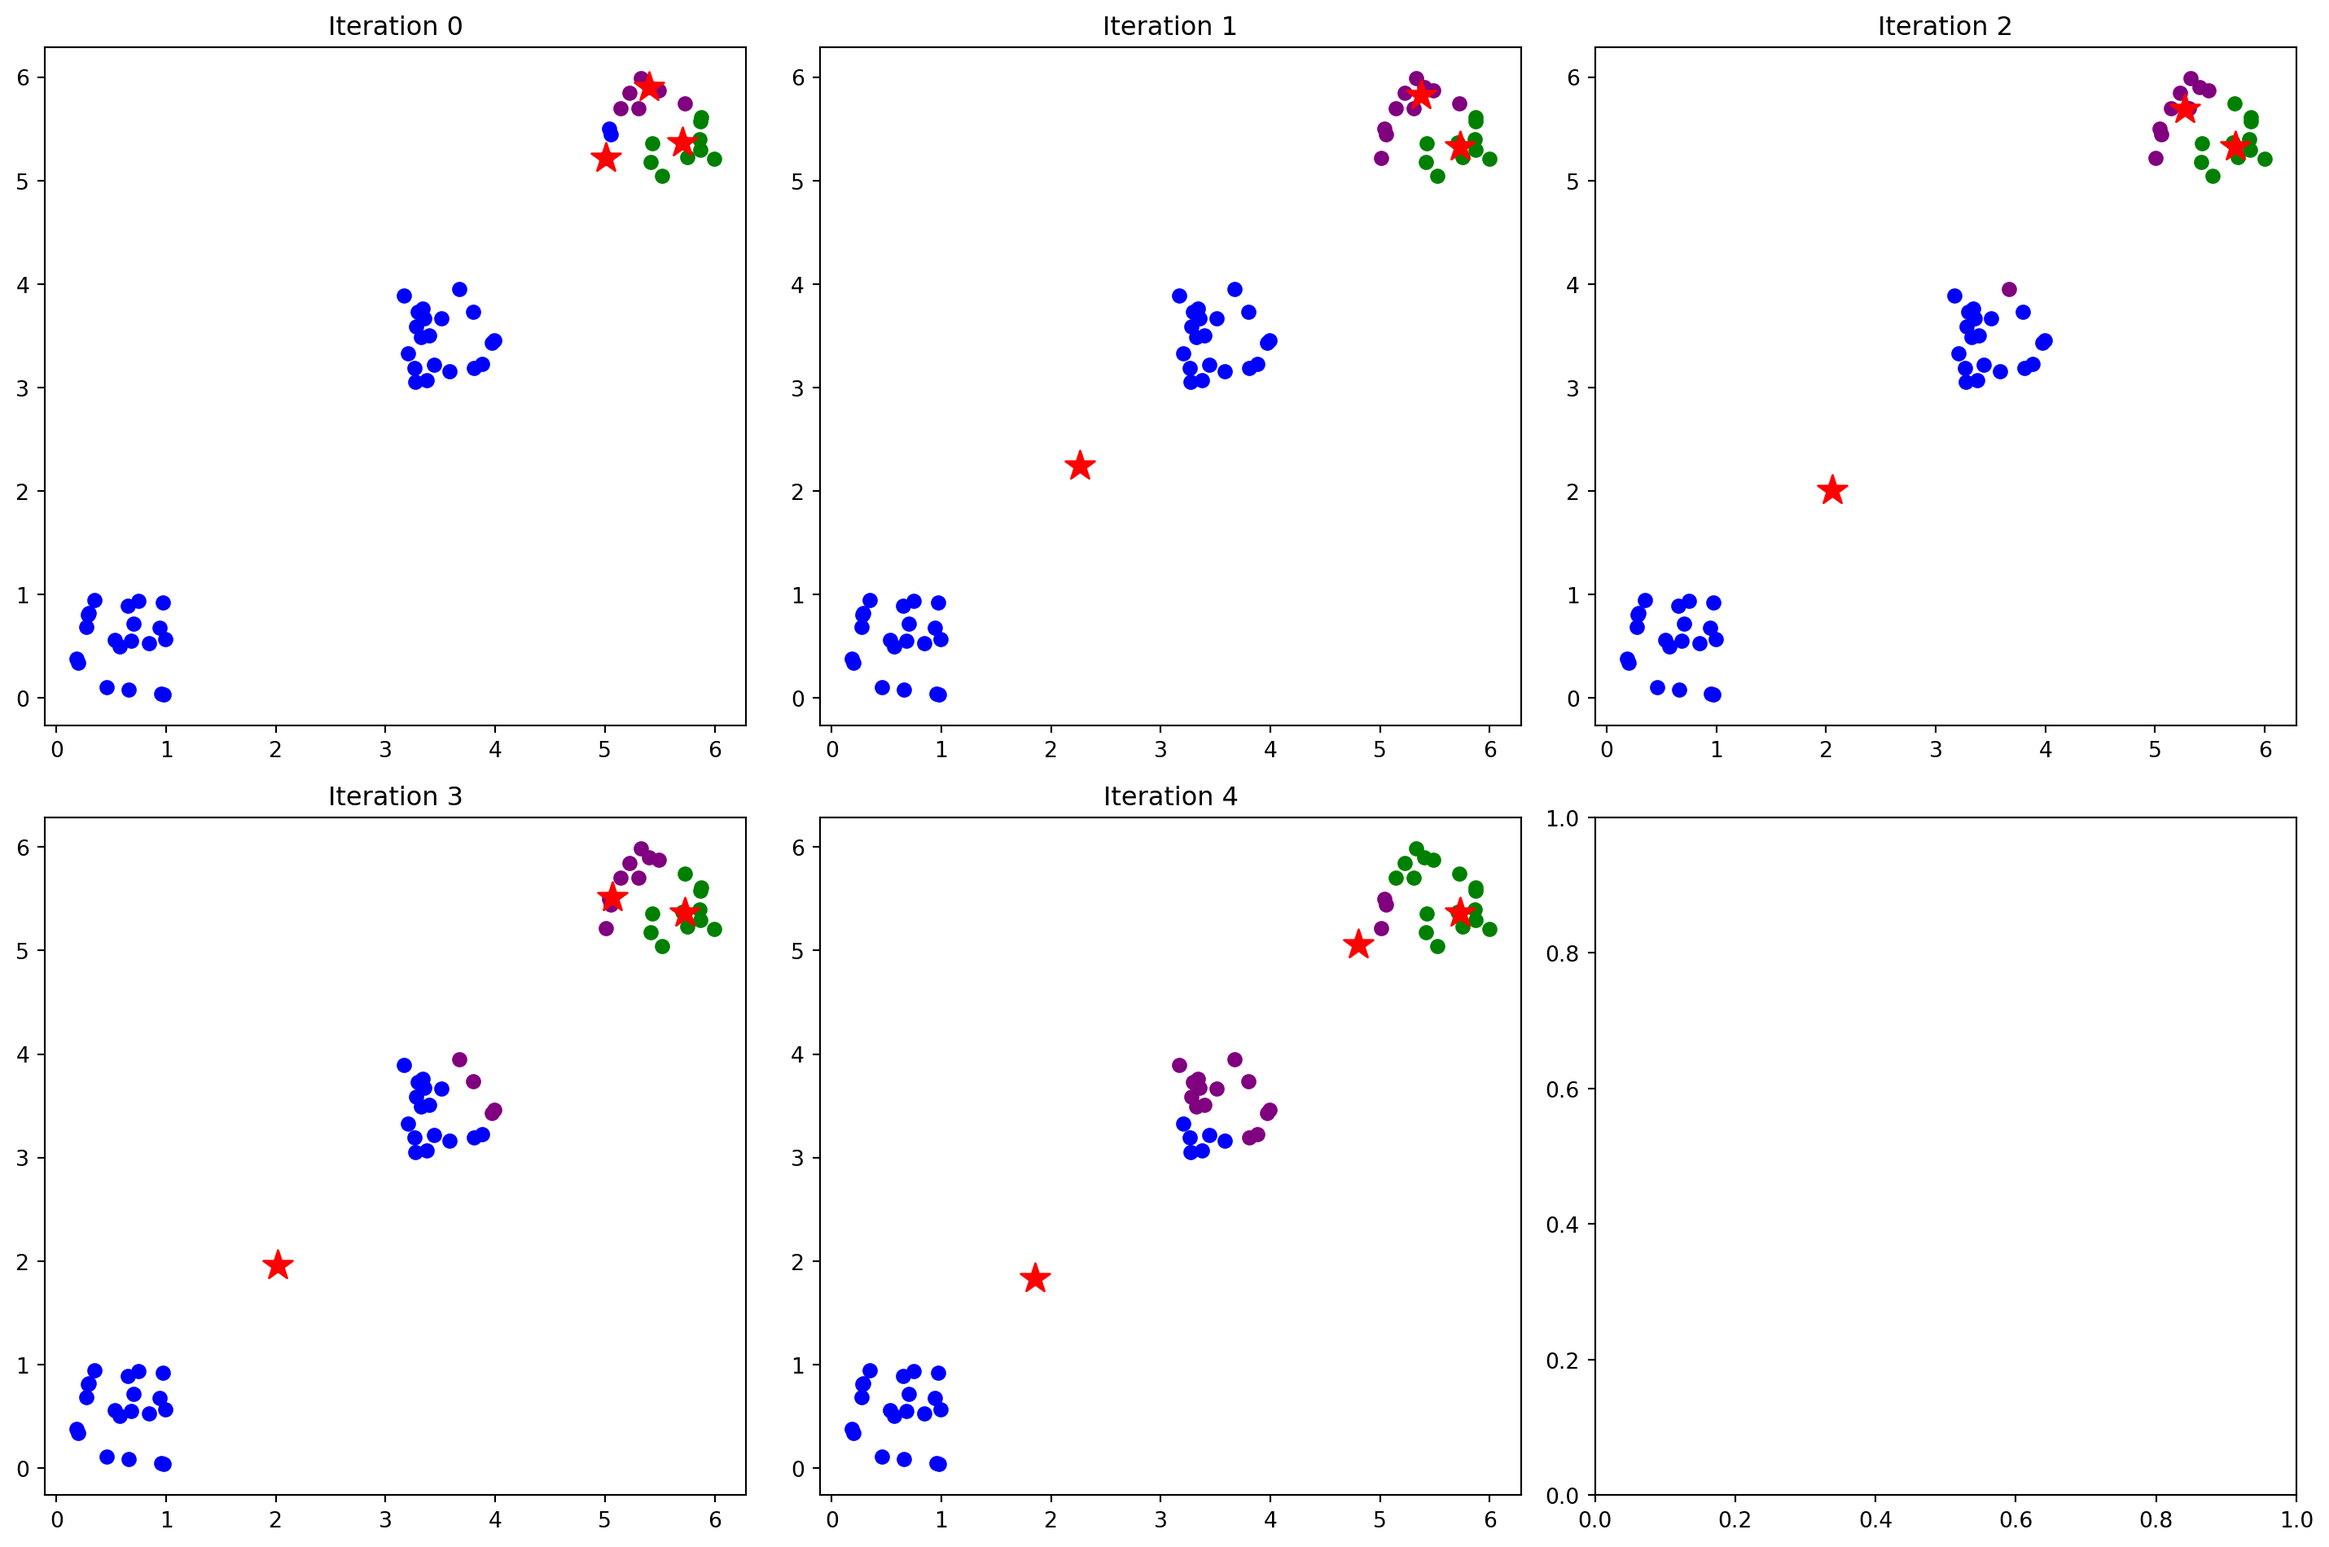
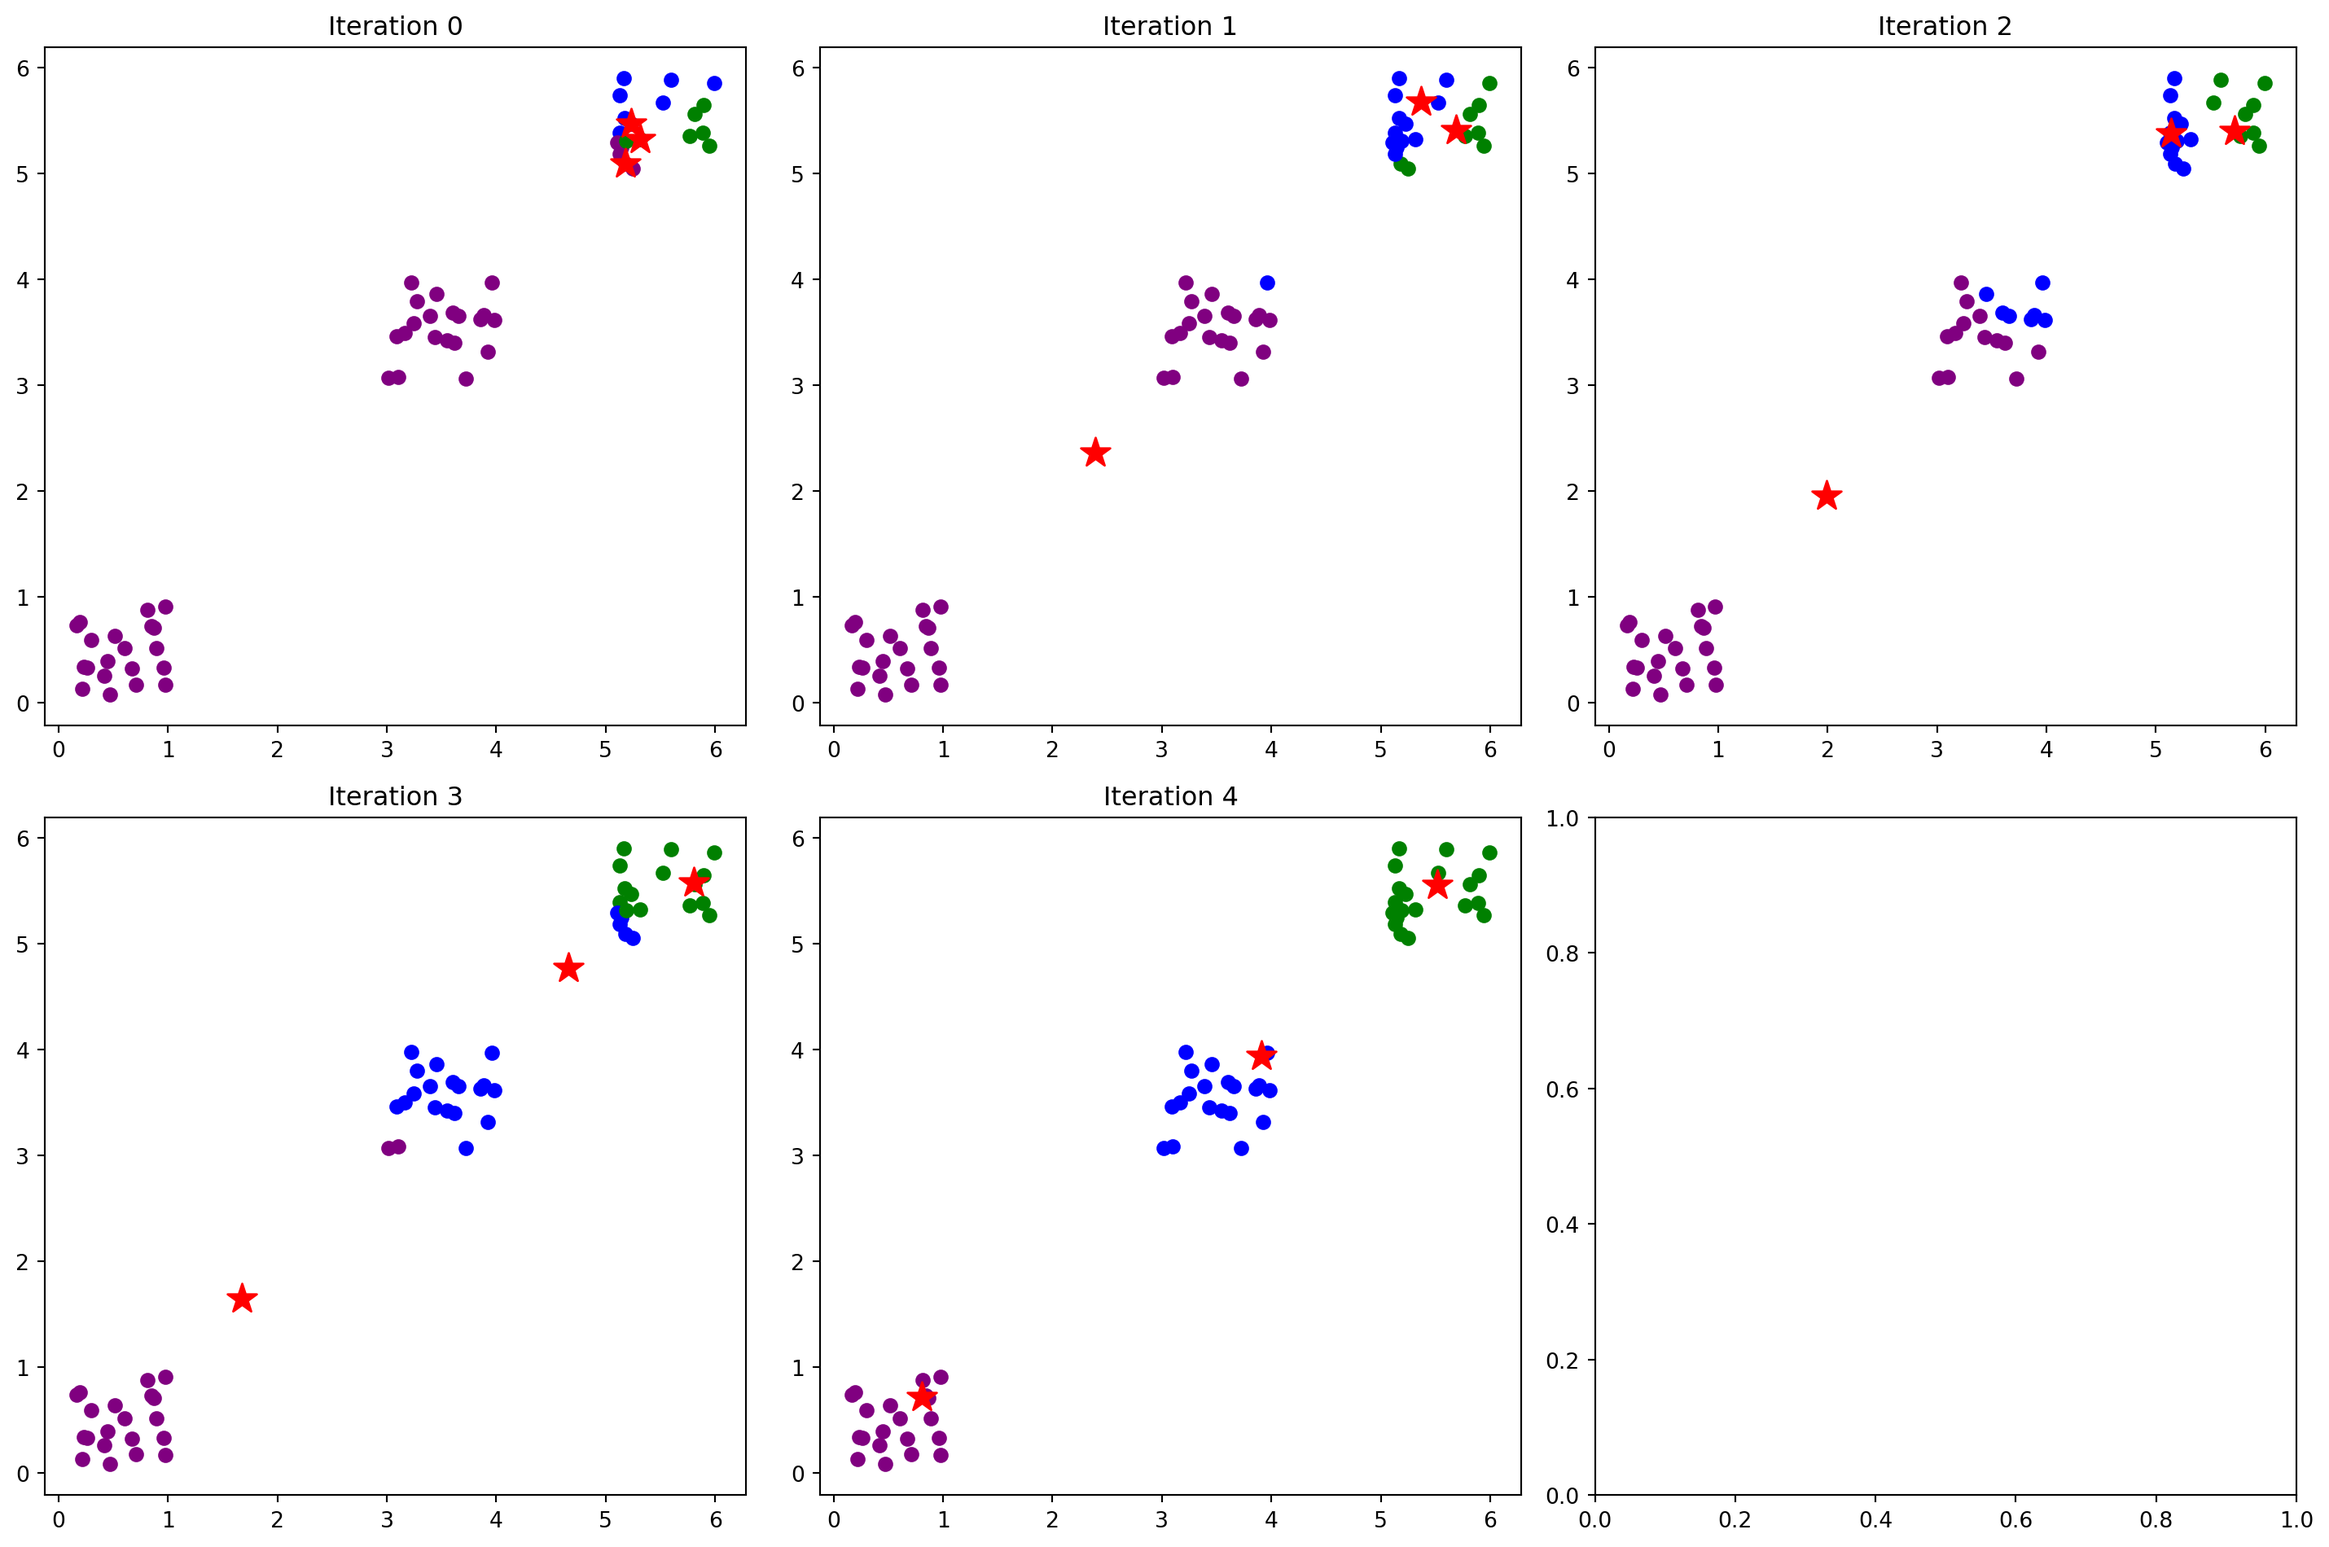
Update navigation and search index for new content
Updated site navigation on all pages to include:
- Chapter 9.8: Efficient Convolution
- Chapter 9.9: Unsupervised Feature Learning
- Stanford EE 364A Lecture 1

Also updated search index and regenerated kmeans figure.

🤖 Generated with [Claude Code](https://claude.com/claude-code)

diff --git a/docs/index.html b/docs/index.html
@@ -478,6 +478,12 @@ window.Quarto = {
     <a class="dropdown-item" href="./Math/MIT18.065/mit18065-lecture9-least-squares.html">
  <span class="dropdown-text">Lecture 9: Least Squares</span></a>
   </li>  
+        <li><hr class="dropdown-divider"></li>
+        <li class="dropdown-header">Stanford EE 364A: Convex Optimization</li>
+        <li>
+    <a class="dropdown-item" href="./Math/EE364A/ee364a-lecture1-intro.html">
+ <span class="dropdown-text">Lecture 1: Introduction</span></a>
+  </li>  
     </ul>
   </li>
   <li class="nav-item dropdown ">
@@ -534,6 +540,7 @@ window.Quarto = {
   <li><a href="#deep-learning-book-37-chapters" id="toc-deep-learning-book-37-chapters" class="nav-link" data-scroll-target="#deep-learning-book-37-chapters">∇ Deep Learning Book <span class="section-count">37 chapters</span></a></li>
   <li><a href="#mit-18.06sc-linear-algebra-36-lectures" id="toc-mit-18.06sc-linear-algebra-36-lectures" class="nav-link" data-scroll-target="#mit-18.06sc-linear-algebra-36-lectures">📐 MIT 18.06SC Linear Algebra <span class="section-count">36 lectures</span></a></li>
   <li><a href="#mit-18.065-linear-algebra-applications-2-lectures" id="toc-mit-18.065-linear-algebra-applications-2-lectures" class="nav-link" data-scroll-target="#mit-18.065-linear-algebra-applications-2-lectures">📐 MIT 18.065: Linear Algebra Applications <span class="section-count">2 lectures</span></a></li>
+  <li><a href="#stanford-ee-364a-convex-optimization-1-lectures" id="toc-stanford-ee-364a-convex-optimization-1-lectures" class="nav-link" data-scroll-target="#stanford-ee-364a-convex-optimization-1-lectures">📐 Stanford EE 364A: Convex Optimization <span class="section-count">1 lectures</span></a></li>
   </ul></li>
   <li><a href="#more-topics" id="toc-more-topics" class="nav-link" data-scroll-target="#more-topics">More Topics</a></li>
   </ul>
@@ -622,6 +629,18 @@ window.Quarto = {
 </div>
 <div class="see-all-button">
 <p><a href="./Math/MIT18.065/lectures.html" class="btn btn-primary">See all MIT 18.065 lectures →</a></p>
+</div>
+</section>
+<section id="stanford-ee-364a-convex-optimization-1-lectures" class="level3 section-block">
+<h3 class="anchored" data-anchor-id="stanford-ee-364a-convex-optimization-1-lectures">📐 Stanford EE 364A: Convex Optimization <span class="section-count">1 lectures</span></h3>
+<p>My notes from Stanford EE 364A: Convex Optimization—theory and applications of optimization problems.</p>
+<div class="content-grid">
+<div class="content-card">
+<p><strong><a href="./Math/EE364A/ee364a-lecture1-intro.html">Lecture 1: Introduction to Convex Optimization</a></strong> Introduction to constraint optimization: least squares (<span class="math inline">\(\|Ax-b\|_2^2\)</span>), linear programming, and convex optimization. Convex problems generalize both while maintaining polynomial-time solvability through interior-point methods—bridging tractable special cases and general nonlinear programming.</p>
+</div>
+</div>
+<div class="see-all-button">
+<p><a href="./Math/EE364A/lectures.html" class="btn btn-primary">See all EE 364A lectures →</a></p>
 </div>
 </section>
 <hr>
@@ -1239,27 +1258,47 @@ window.Quarto = {
 <span id="cb1-106"><a href="#cb1-106" aria-hidden="true" tabindex="-1"></a></span>
 <span id="cb1-107"><a href="#cb1-107" aria-hidden="true" tabindex="-1"></a>:::</span>
 <span id="cb1-108"><a href="#cb1-108" aria-hidden="true" tabindex="-1"></a></span>
-<span id="cb1-109"><a href="#cb1-109" aria-hidden="true" tabindex="-1"></a>---</span>
-<span id="cb1-110"><a href="#cb1-110" aria-hidden="true" tabindex="-1"></a></span>
-<span id="cb1-111"><a href="#cb1-111" aria-hidden="true" tabindex="-1"></a>::: {.footer-section}</span>
-<span id="cb1-112"><a href="#cb1-112" aria-hidden="true" tabindex="-1"></a><span class="fu">## More Topics</span></span>
+<span id="cb1-109"><a href="#cb1-109" aria-hidden="true" tabindex="-1"></a>::: {.section-block}</span>
+<span id="cb1-110"><a href="#cb1-110" aria-hidden="true" tabindex="-1"></a><span class="fu">### 📐 Stanford EE 364A: Convex Optimization &lt;span class="section-count"&gt;1 lectures&lt;/span&gt;</span></span>
+<span id="cb1-111"><a href="#cb1-111" aria-hidden="true" tabindex="-1"></a></span>
+<span id="cb1-112"><a href="#cb1-112" aria-hidden="true" tabindex="-1"></a>My notes from Stanford EE 364A: Convex Optimization—theory and applications of optimization problems.</span>
 <span id="cb1-113"><a href="#cb1-113" aria-hidden="true" tabindex="-1"></a></span>
-<span id="cb1-114"><a href="#cb1-114" aria-hidden="true" tabindex="-1"></a>::: {.footer-grid}</span>
+<span id="cb1-114"><a href="#cb1-114" aria-hidden="true" tabindex="-1"></a>::: {.content-grid}</span>
 <span id="cb1-115"><a href="#cb1-115" aria-hidden="true" tabindex="-1"></a></span>
-<span id="cb1-116"><a href="#cb1-116" aria-hidden="true" tabindex="-1"></a>::: {.footer-card}</span>
-<span id="cb1-117"><a href="#cb1-117" aria-hidden="true" tabindex="-1"></a><span class="fu">### Machine Learning</span></span>
-<span id="cb1-118"><a href="#cb1-118" aria-hidden="true" tabindex="-1"></a><span class="ss">- </span><span class="co">[</span><span class="ot">K-Means Clustering</span><span class="co">](ML/kmeans.ipynb)</span></span>
-<span id="cb1-119"><a href="#cb1-119" aria-hidden="true" tabindex="-1"></a><span class="ss">- </span><span class="co">[</span><span class="ot">Logistic Regression</span><span class="co">](ML/logistic_regression.qmd)</span></span>
-<span id="cb1-120"><a href="#cb1-120" aria-hidden="true" tabindex="-1"></a><span class="ss">- </span><span class="co">[</span><span class="ot">Axis Operations</span><span class="co">](ML/axis.qmd)</span></span>
+<span id="cb1-116"><a href="#cb1-116" aria-hidden="true" tabindex="-1"></a>::: {.content-card}</span>
+<span id="cb1-117"><a href="#cb1-117" aria-hidden="true" tabindex="-1"></a>**[Lecture 1: Introduction to Convex Optimization](Math/EE364A/ee364a-lecture1-intro.qmd)**</span>
+<span id="cb1-118"><a href="#cb1-118" aria-hidden="true" tabindex="-1"></a>Introduction to constraint optimization: least squares ($<span class="sc">\|</span>Ax-b<span class="sc">\|</span>_2^2$), linear programming, and convex optimization. Convex problems generalize both while maintaining polynomial-time solvability through interior-point methods—bridging tractable special cases and general nonlinear programming.</span>
+<span id="cb1-119"><a href="#cb1-119" aria-hidden="true" tabindex="-1"></a>:::</span>
+<span id="cb1-120"><a href="#cb1-120" aria-hidden="true" tabindex="-1"></a></span>
 <span id="cb1-121"><a href="#cb1-121" aria-hidden="true" tabindex="-1"></a>:::</span>
 <span id="cb1-122"><a href="#cb1-122" aria-hidden="true" tabindex="-1"></a></span>
-<span id="cb1-123"><a href="#cb1-123" aria-hidden="true" tabindex="-1"></a>::: {.footer-card}</span>
-<span id="cb1-124"><a href="#cb1-124" aria-hidden="true" tabindex="-1"></a><span class="fu">### Algorithms</span></span>
-<span id="cb1-125"><a href="#cb1-125" aria-hidden="true" tabindex="-1"></a><span class="ss">- </span><span class="co">[</span><span class="ot">DP Regex</span><span class="co">](Algorithm/dp_regex.qmd)</span></span>
-<span id="cb1-126"><a href="#cb1-126" aria-hidden="true" tabindex="-1"></a>:::</span>
-<span id="cb1-127"><a href="#cb1-127" aria-hidden="true" tabindex="-1"></a></span>
-<span id="cb1-128"><a href="#cb1-128" aria-hidden="true" tabindex="-1"></a>:::</span>
-<span id="cb1-129"><a href="#cb1-129" aria-hidden="true" tabindex="-1"></a>:::</span></code></pre></div><button title="Copy to Clipboard" class="code-copy-button" data-in-quarto-modal=""><i class="bi"></i></button></div>
+<span id="cb1-123"><a href="#cb1-123" aria-hidden="true" tabindex="-1"></a>::: {.see-all-button}</span>
+<span id="cb1-124"><a href="#cb1-124" aria-hidden="true" tabindex="-1"></a><span class="co">[</span><span class="ot">See all EE 364A lectures →</span><span class="co">](Math/EE364A/lectures.qmd)</span>{.btn .btn-primary}</span>
+<span id="cb1-125"><a href="#cb1-125" aria-hidden="true" tabindex="-1"></a>:::</span>
+<span id="cb1-126"><a href="#cb1-126" aria-hidden="true" tabindex="-1"></a></span>
+<span id="cb1-127"><a href="#cb1-127" aria-hidden="true" tabindex="-1"></a>:::</span>
+<span id="cb1-128"><a href="#cb1-128" aria-hidden="true" tabindex="-1"></a></span>
+<span id="cb1-129"><a href="#cb1-129" aria-hidden="true" tabindex="-1"></a>---</span>
+<span id="cb1-130"><a href="#cb1-130" aria-hidden="true" tabindex="-1"></a></span>
+<span id="cb1-131"><a href="#cb1-131" aria-hidden="true" tabindex="-1"></a>::: {.footer-section}</span>
+<span id="cb1-132"><a href="#cb1-132" aria-hidden="true" tabindex="-1"></a><span class="fu">## More Topics</span></span>
+<span id="cb1-133"><a href="#cb1-133" aria-hidden="true" tabindex="-1"></a></span>
+<span id="cb1-134"><a href="#cb1-134" aria-hidden="true" tabindex="-1"></a>::: {.footer-grid}</span>
+<span id="cb1-135"><a href="#cb1-135" aria-hidden="true" tabindex="-1"></a></span>
+<span id="cb1-136"><a href="#cb1-136" aria-hidden="true" tabindex="-1"></a>::: {.footer-card}</span>
+<span id="cb1-137"><a href="#cb1-137" aria-hidden="true" tabindex="-1"></a><span class="fu">### Machine Learning</span></span>
+<span id="cb1-138"><a href="#cb1-138" aria-hidden="true" tabindex="-1"></a><span class="ss">- </span><span class="co">[</span><span class="ot">K-Means Clustering</span><span class="co">](ML/kmeans.ipynb)</span></span>
+<span id="cb1-139"><a href="#cb1-139" aria-hidden="true" tabindex="-1"></a><span class="ss">- </span><span class="co">[</span><span class="ot">Logistic Regression</span><span class="co">](ML/logistic_regression.qmd)</span></span>
+<span id="cb1-140"><a href="#cb1-140" aria-hidden="true" tabindex="-1"></a><span class="ss">- </span><span class="co">[</span><span class="ot">Axis Operations</span><span class="co">](ML/axis.qmd)</span></span>
+<span id="cb1-141"><a href="#cb1-141" aria-hidden="true" tabindex="-1"></a>:::</span>
+<span id="cb1-142"><a href="#cb1-142" aria-hidden="true" tabindex="-1"></a></span>
+<span id="cb1-143"><a href="#cb1-143" aria-hidden="true" tabindex="-1"></a>::: {.footer-card}</span>
+<span id="cb1-144"><a href="#cb1-144" aria-hidden="true" tabindex="-1"></a><span class="fu">### Algorithms</span></span>
+<span id="cb1-145"><a href="#cb1-145" aria-hidden="true" tabindex="-1"></a><span class="ss">- </span><span class="co">[</span><span class="ot">DP Regex</span><span class="co">](Algorithm/dp_regex.qmd)</span></span>
+<span id="cb1-146"><a href="#cb1-146" aria-hidden="true" tabindex="-1"></a>:::</span>
+<span id="cb1-147"><a href="#cb1-147" aria-hidden="true" tabindex="-1"></a></span>
+<span id="cb1-148"><a href="#cb1-148" aria-hidden="true" tabindex="-1"></a>:::</span>
+<span id="cb1-149"><a href="#cb1-149" aria-hidden="true" tabindex="-1"></a>:::</span></code></pre></div><button title="Copy to Clipboard" class="code-copy-button" data-in-quarto-modal=""><i class="bi"></i></button></div>
 </div></div></div></div></div>
 </div> <!-- /content -->
 

diff --git a/docs/ML/kmeans.html b/docs/ML/kmeans.html
@@ -306,6 +306,14 @@ window.Quarto = {
     <a class="dropdown-item" href="../ML/cnn-data-types.html">
  <span class="dropdown-text">Chapter 9.7: Data Types</span></a>
   </li>  
+        <li>
+    <a class="dropdown-item" href="../ML/cnn-efficient-convolution.html">
+ <span class="dropdown-text">Chapter 9.8: Efficient Convolution</span></a>
+  </li>  
+        <li>
+    <a class="dropdown-item" href="../ML/cnn-unsupervised-learning.html">
+ <span class="dropdown-text">Chapter 9.9: Unsupervised Feature Learning</span></a>
+  </li>  
     </ul>
   </li>
   <li class="nav-item dropdown ">
@@ -461,10 +469,20 @@ window.Quarto = {
  <span class="dropdown-text">Lecture 33: Left &amp; Right Inverse</span></a>
   </li>  
         <li><hr class="dropdown-divider"></li>
-        <li class="dropdown-header">MIT 18.065 Matrix Methods</li>
+        <li class="dropdown-header">MIT 18.065: Linear Algebra Applications</li>
         <li>
     <a class="dropdown-item" href="../Math/MIT18.065/mit18065-lecture8-norms.html">
  <span class="dropdown-text">Lecture 8: Norms</span></a>
+  </li>  
+        <li>
+    <a class="dropdown-item" href="../Math/MIT18.065/mit18065-lecture9-least-squares.html">
+ <span class="dropdown-text">Lecture 9: Least Squares</span></a>
+  </li>  
+        <li><hr class="dropdown-divider"></li>
+        <li class="dropdown-header">Stanford EE 364A: Convex Optimization</li>
+        <li>
+    <a class="dropdown-item" href="../Math/EE364A/ee364a-lecture1-intro.html">
+ <span class="dropdown-text">Lecture 1: Introduction</span></a>
   </li>  
     </ul>
   </li>
